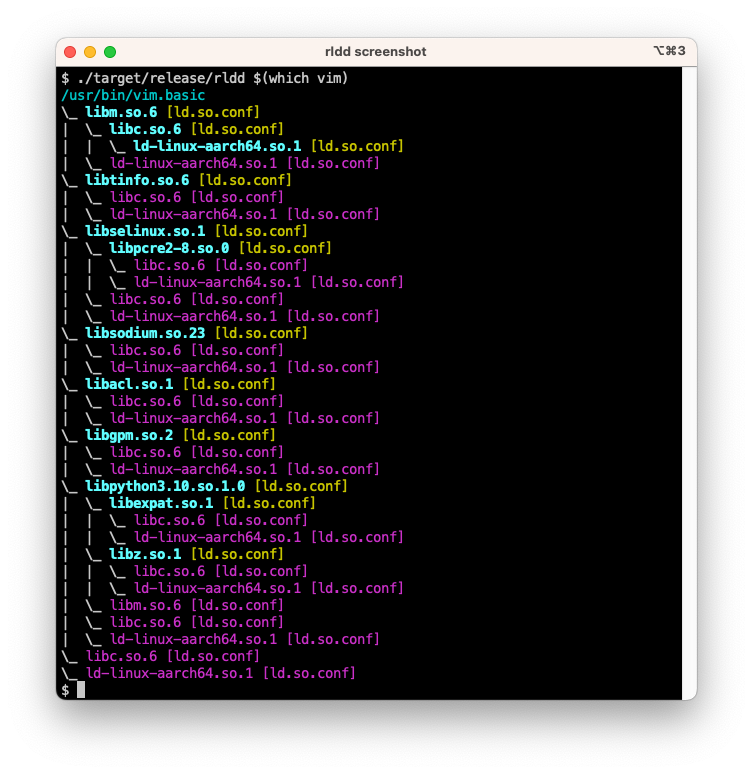
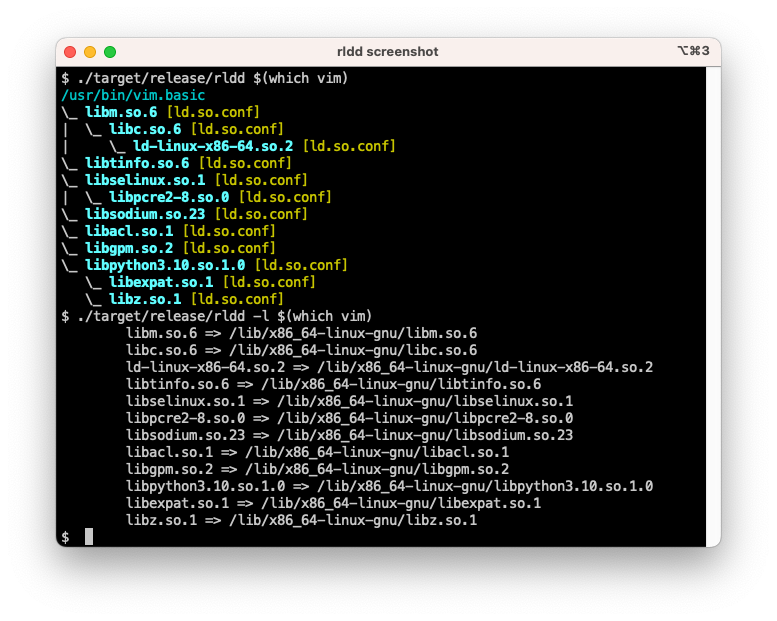
Change to make unique the default
And add a different option, '-a', to print all dependencies.

Changed region(s): [[0.0611, 0.0612, 0.9469, 0.9485]]

diff --git a/src/main.rs b/src/main.rs
@@ -34,7 +34,7 @@ struct Config<'a> {
     ld_so_conf: &'a Option<search_path::SearchPathVec>,
     system_dirs: search_path::SearchPathVec,
     platform: Option<&'a String>,
-    unique: bool,
+    all: bool,
 }
 
 type DepsVec = Vec<String>;
@@ -537,7 +537,7 @@ fn resolve_dependency(
     // resolve the library.
     if !elc.nodeflibs {
         if let Some(entry) = deptree.get(dependency) {
-            if !config.unique {
+            if config.all {
                 deptree.addnode(
                     DepNode {
                         path: entry.path,
@@ -838,7 +838,7 @@ fn print_binary_dependencies(
     ld_so_conf: &mut Option<search_path::SearchPathVec>,
     ld_library_path: &search_path::SearchPathVec,
     platform: Option<&String>,
-    unique: bool,
+    all: bool,
     arg: &str,
 ) {
     // On glibc/Linux the RTLD_DI_ORIGIN for the executable itself (used for $ORIGIN
@@ -888,7 +888,7 @@ fn print_binary_dependencies(
         ld_so_conf: ld_so_conf,
         system_dirs: system_dirs,
         platform: platform,
-        unique: unique,
+        all: all,
     };
 
     let mut deptree = resolve_binary(&filename, &config, &elc);
@@ -901,7 +901,7 @@ fn main() {
     let mut ld_library_path = String::new();
     let mut ld_preload = String::new();
     let mut platform = String::new();
-    let mut unique = false;
+    let mut all = false;
     let mut ldd = false;
     let mut args: Vec<String> = vec![];
 
@@ -927,10 +927,10 @@ fn main() {
             Store,
             "Set the value of $PLATFORM in rpath/runpath expansion",
         );
-        ap.refer(&mut unique).add_option(
-            &["-u", "--unique"],
+        ap.refer(&mut all).add_option(
+            &["-a", "--all"],
             StoreTrue,
-            "Do not print already resolved dependencies",
+            "Print already resolved dependencies",
         );
         ap.refer(&mut ldd).add_option(
             &["-l", "--ldd"],
@@ -944,9 +944,6 @@ fn main() {
     }
 
     let mut printer = printer::create(showpath, ldd, args.len() == 1);
-    if ldd {
-        unique = true;
-    }
 
     let ld_library_path = search_path::from_string(&ld_library_path.as_str(), &[':']);
     let ld_preload = search_path::from_preload(&ld_preload.as_str());
@@ -967,7 +964,7 @@ fn main() {
             &mut ld_so_conf,
             &ld_library_path,
             plat,
-            unique,
+            all,
             arg.as_str(),
         )
     }

diff --git a/README.md b/README.md
@@ -8,7 +8,7 @@ The rldd tool mimics the ldd shared libraries resolution and also adds some visu
 
 The default visualization option prints all dependencies, including loader, libc, and duplicated entries in a tree format.
 
-Use the '-u' option filters out the duplicated entries, and the '-p' option to print full resolved paths instead of just the soname.
+Use the '-a' option prints all dependencies (including already resolved ones), and the '-p' option to print full resolved paths instead of just the soname.
 
 The option '-l' mimics the ldd output, with unique libraries one per line.
 
